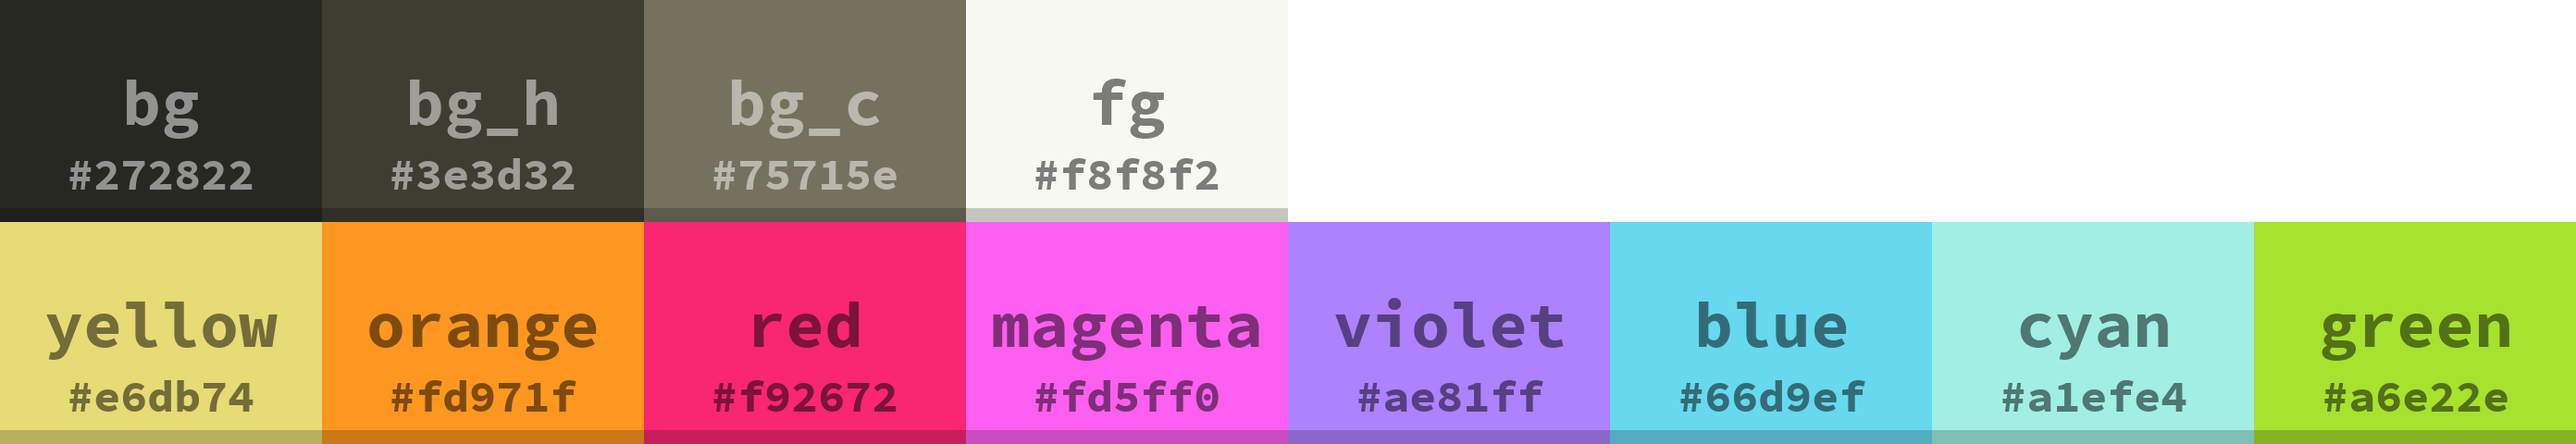
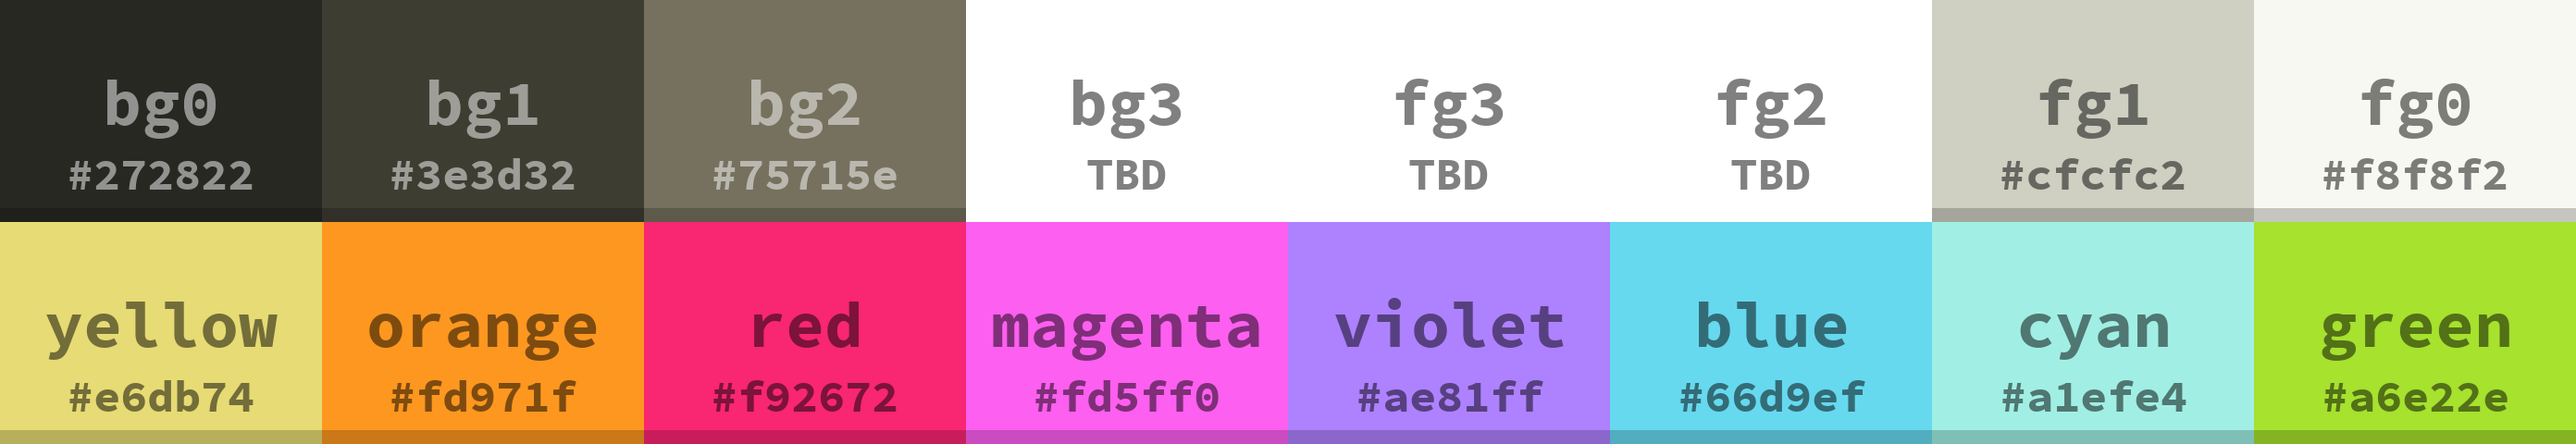
Update docs

diff --git a/README.md b/README.md
@@ -8,8 +8,6 @@ A beautiful, modern, high quality, Monokai theme for Sublime Text 3.
 * Additional syntax highlighting for LESS, Sass, Laravel Blade, Visual Studio Code.
 * Supported plugins: [GitGutter][], [SublimeLinter][], [NeoVintageous][].
 
-![Monokai Free color palette](palette.png)
-
 ## INSTALLATION
 
 ### Package Control
@@ -66,27 +64,29 @@ To run the tests install [ColorSchemeUnit][] (a framework for testing Sublime Te
 
 The colors are not set in stone. Please advice of better choices. There are also still two background and one foreground shades yet to be selected.
 
-```
+![Monokai Free color palette](palette.png)
+
+```text
 COLOR TABLE
 
 MONOKAIFREE HEX     RGB         EXAMPLE USAGE
 *********** ******* *********** ********************************************
 bg0         #272822  39  40  34
-bg1         #3e3d32  62  61  50 Rulers, invisibles, Line highlight.
-bg?         ??????? ??? ??? ???
-bg?         ??????? ??? ??? ???
+bg1         #3e3d32  62  61  50 Rulers, invisibles, line highlight.
+bg2         ??????? ??? ??? ???
+bg3         ??????? ??? ??? ???
 fg0         #f8f8f2 248 248 242 Text
 fg1         #cfcfc2 207 207 194 Text (soft)
-fg2         #75715e 117 113  94 Comments, selections, gutter line numbers.
-fg?         ??????? ??? ??? ???
-yellow      #e6db74 230 219 116
-orange      #fd971f 253 151  31
-red         #f92672 249  38 114
+fg2         #75715e 117 113  94 Comments, selections, gutter text.
+fg3         ??????? ??? ??? ???
+yellow      #e6db74 230 219 116 Strings, cursors.
+orange      #fd971f 253 151  31 Language identifiers, function parameters.
+red         #f92672 249  38 114 Control structures, modifiers, operators.
 magenta     #fd5ff0 253  95 240
-violet      #ae81ff 174 129 255
+violet      #ae81ff 174 129 255 Constants, numbers, booleans.
 blue        #66d9ef 102 217 239
 cyan        #a1efe4 161 239 228
-green       #a6e22e 166 226  46
+green       #a6e22e 166 226  46 Class names, function names.
 ```
 
 ## LICENSE
